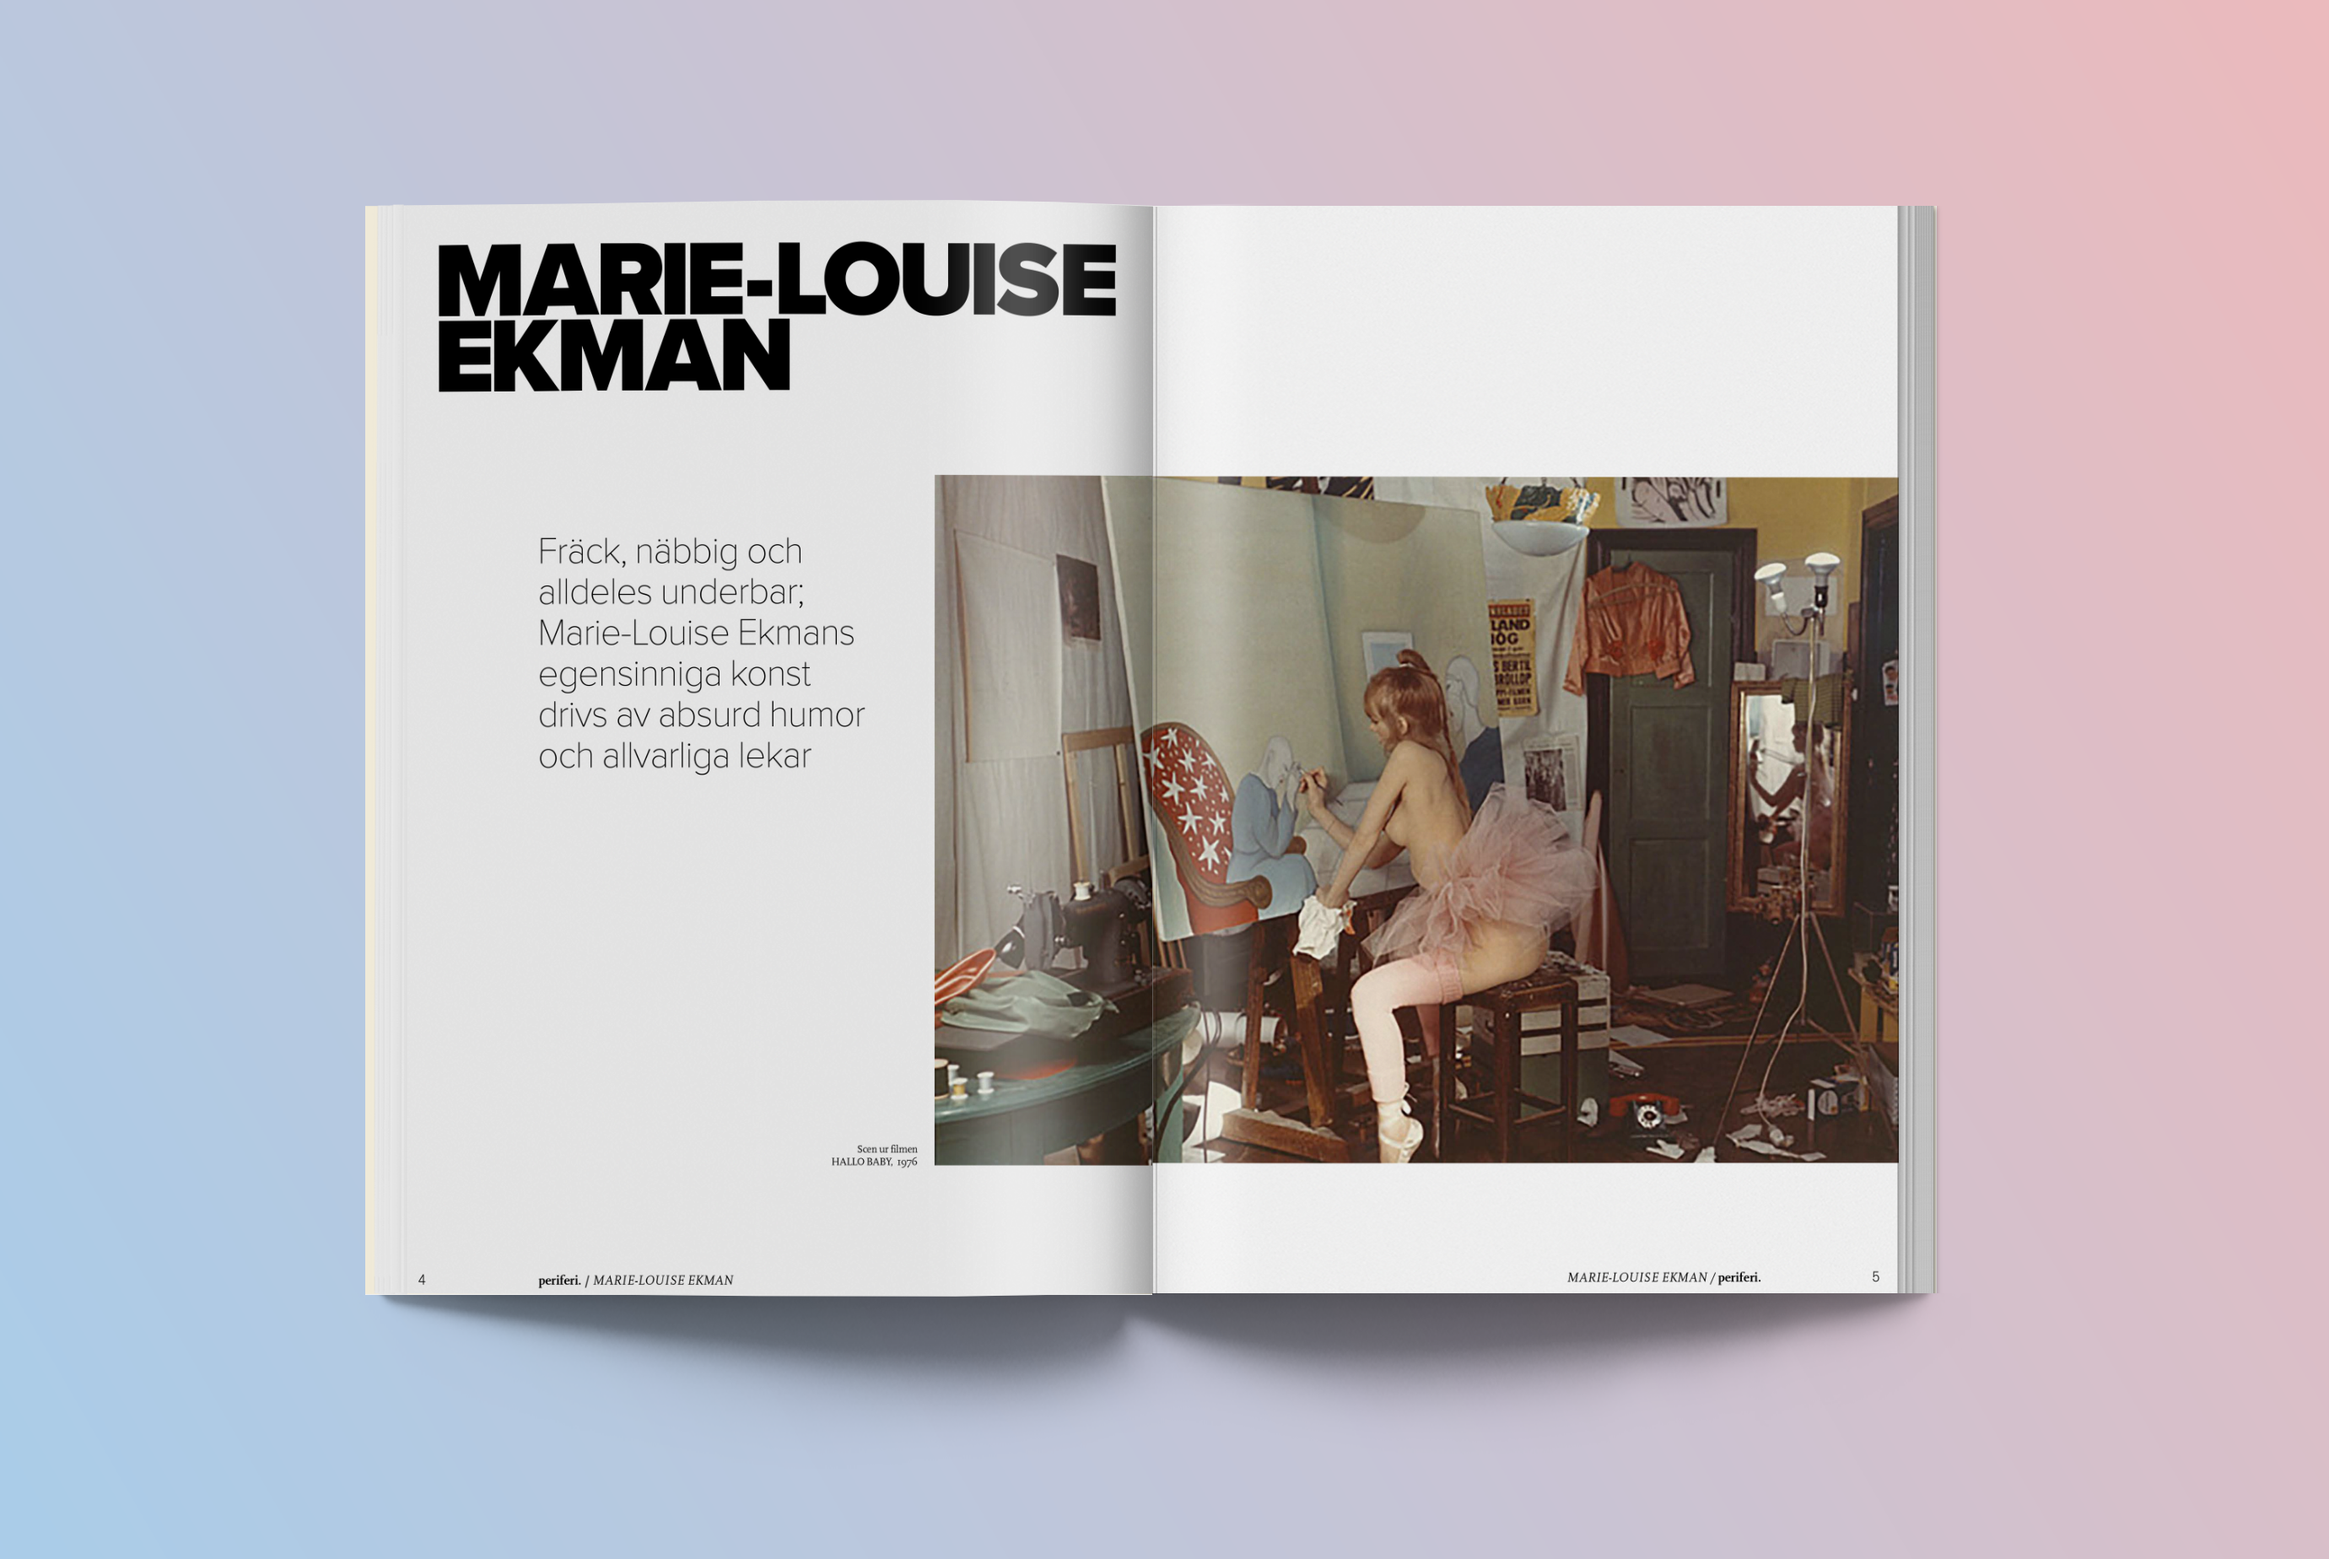
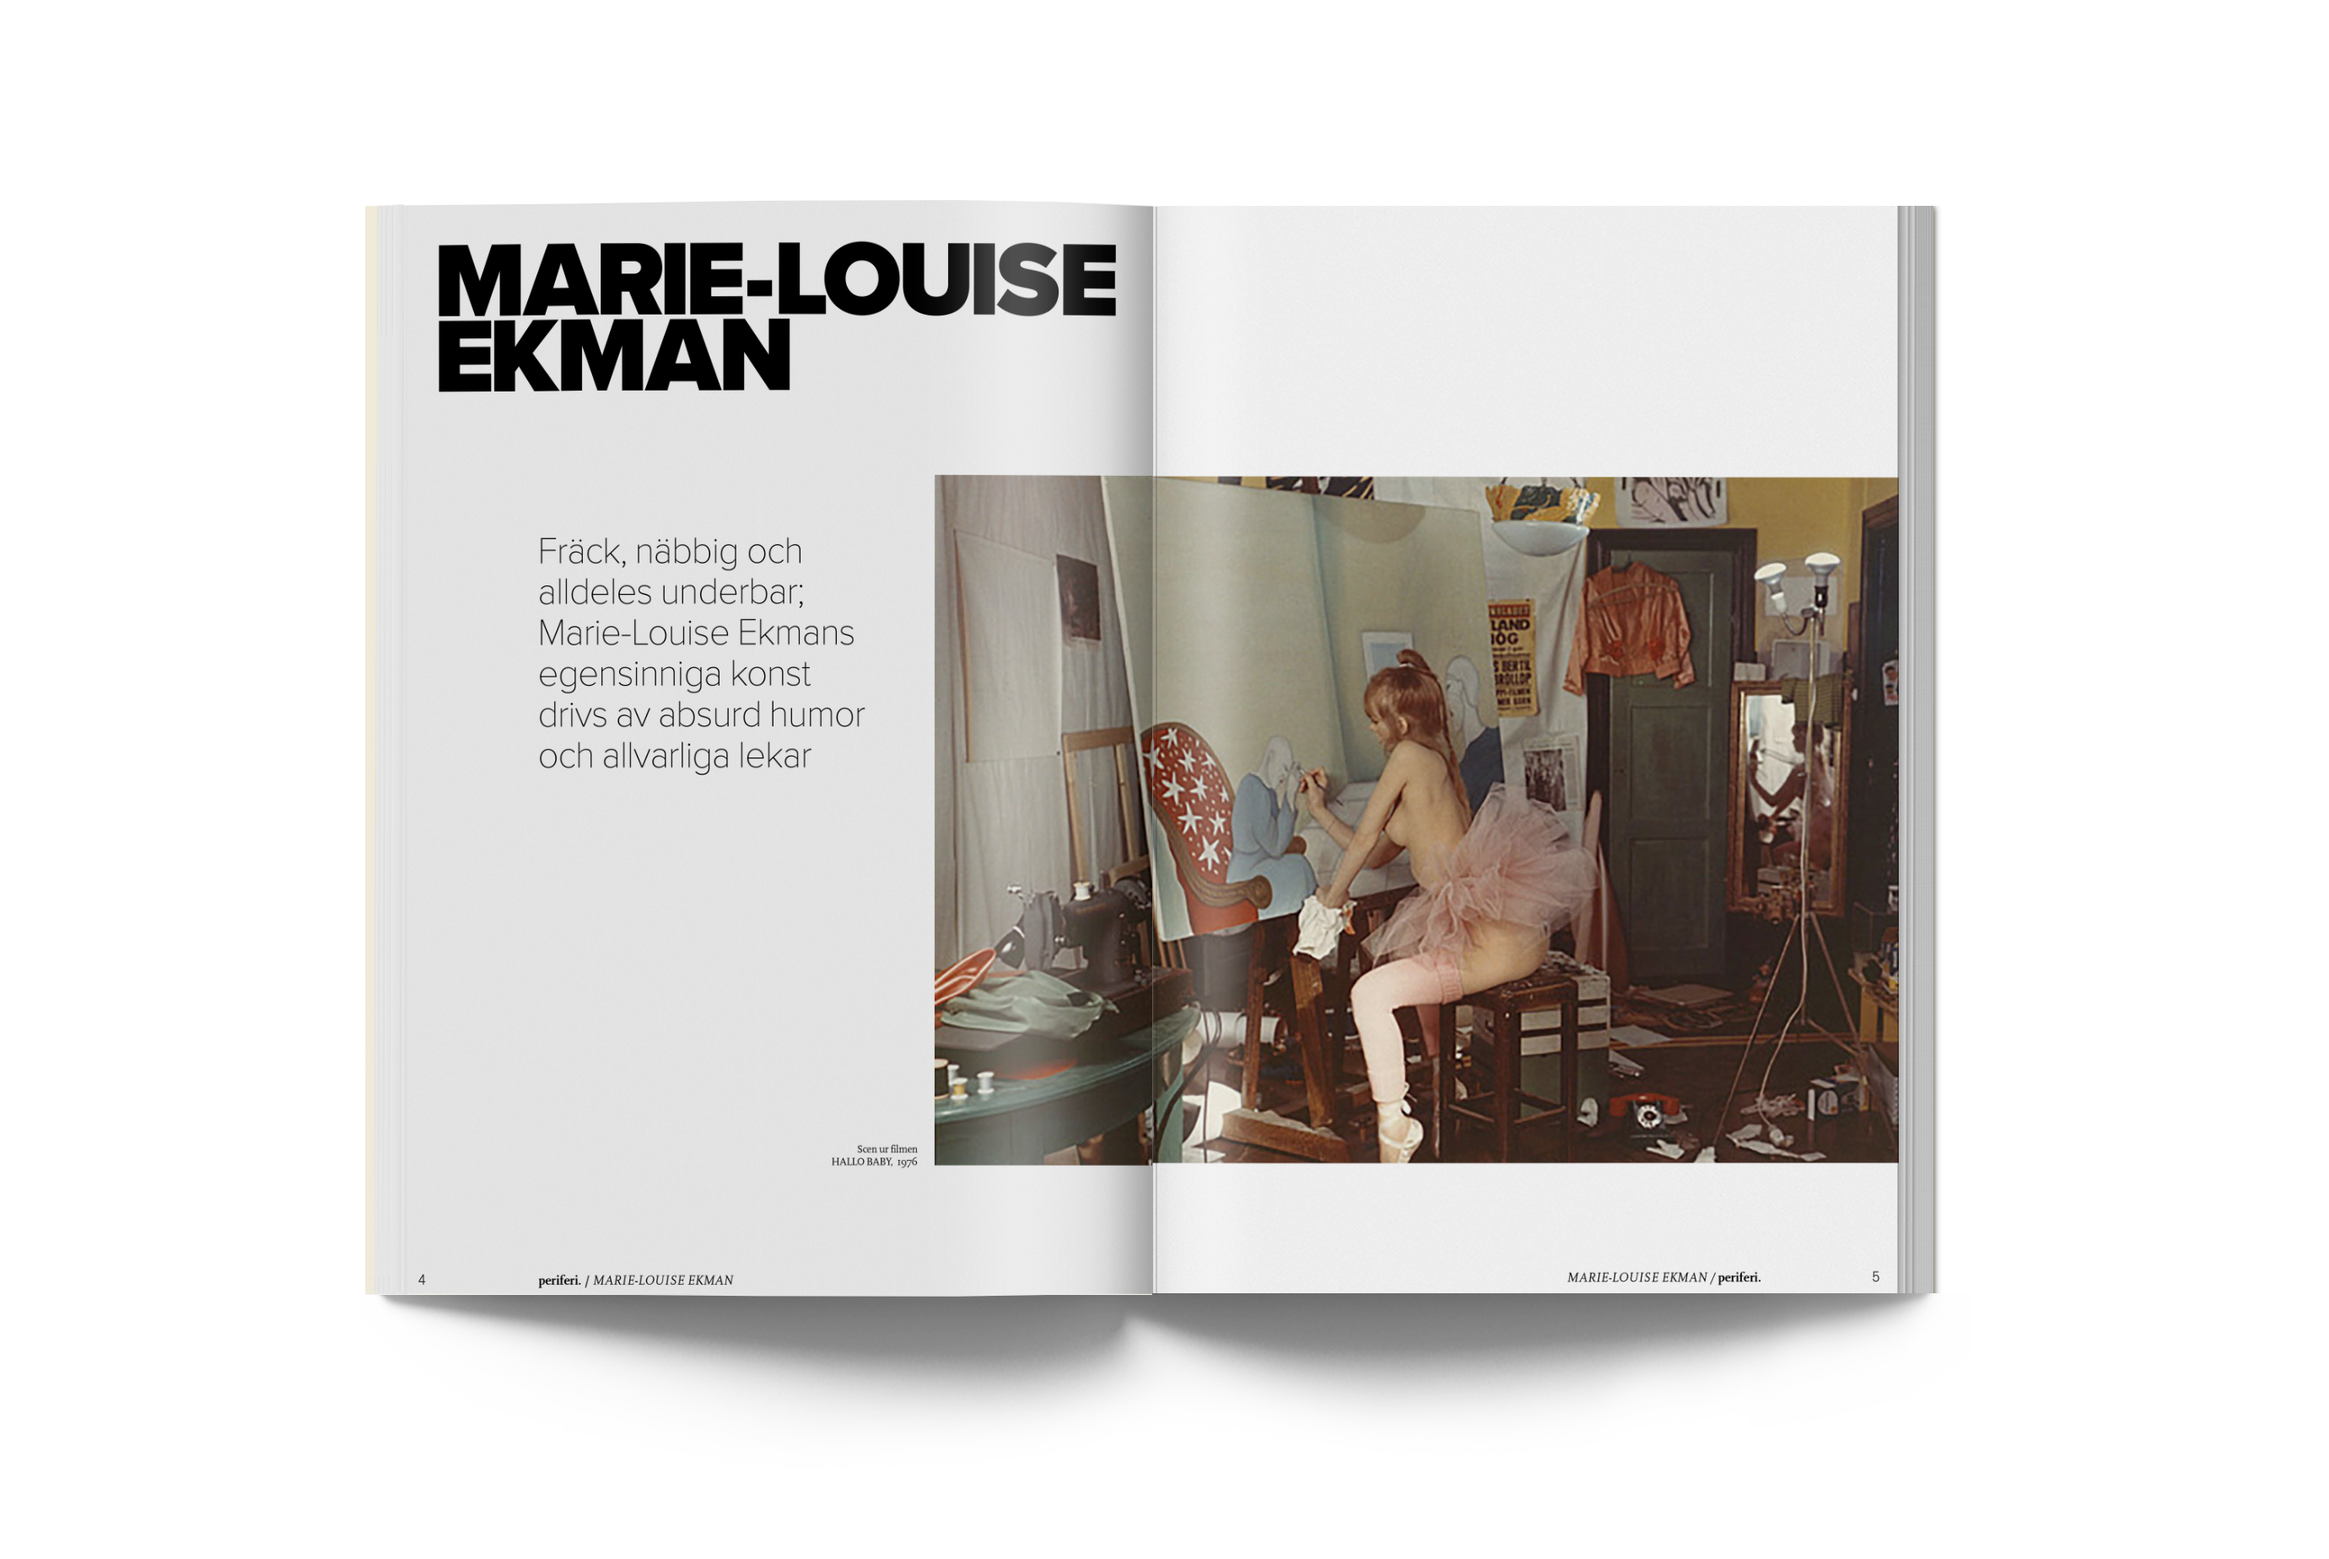
update bilder periferi

diff --git a/magazine.html b/magazine.html
@@ -18,13 +18,13 @@
 
         <div class="box-images">
 
-            <div class="image1">
-              <img src="bilder/Periferi_Mockup-front2.png" alt="">
+          <div class="image1">
+            <img src="bilder/logo-no3-03-01.png" alt="">
 
-            </div>
+          </div>
 
             <div class="image1">
-              <img src="bilder/Mockup-spread.png" alt="">
+              <img src="bilder/Uppslag-mle-start.png" alt="">
 
             </div>
 
@@ -44,7 +44,7 @@
             </div>
 
             <div class="image1">
-              <img src="bilder/Periferi_Mockup-front-MULTIPLE.png" alt="">
+              <img src="bilder/Periferi_Mockup-frontx3.png" alt="">
 
             </div>
 <hr>
@@ -52,7 +52,7 @@
         </div>
 
         <footer>
-          Cecilia Turemark © cturemark@gmail.com
+          Cecilia Turemark © 2019
         </footer>
     </div>
 

diff --git a/about.html b/about.html
@@ -28,13 +28,17 @@
 
         </div>
         <div class="text">
-          <p>You can reach me om +46735093450</p>
-          <p>or if you prefer email cturemark@gmail.com is the one to remember!</p>
+          <a href="https://www.linkedin.com/in/cecilia-turemark-2b467813b/">linkedin</a>
+          <a href="#">behance</a>
+          <a href="#">dribble</a>
+
+          <p>You can reach me om +46735093450 <br>
+          or if you prefer email cturemark@gmail.com is the one to remember!</p>
         </div>
 <hr>
 
         <footer>
-          Cecilia Turemark © cturemark@gmail.com
+          Cecilia Turemark © 2019
         </footer>
 
     </div>

diff --git a/index.html b/index.html
@@ -38,8 +38,8 @@
             <a name=first-project href="magazine.html">
 
             <img src="bilder/PeriferiMULTIPLE_4-7.png" alt=""></a>
-            <h2>Periferi</h2>
-            <p> Magazine made with love</p>
+            <h2>Periferi - Magazine design</h2>
+            <p> Made a magazine with the goal to promote creative women. <br> Logotype, layout and concept is all mine.</p>
           </div>
 <hr>
             <div class="image1">
@@ -59,7 +59,7 @@
         </div>
 
         <footer>
-          This portfolio is created by Cecilia Turemark © cturemark@gmail.com
+       Cecilia Turemark © 2019
         </footer>
 
     </div>

diff --git a/bookcover.html b/bookcover.html
@@ -19,20 +19,27 @@
         <div class="box-images">
 
             <div class="image1">
+              <img src="bilder/Mockup-fram.png" alt="">
+
+            </div>
+
+            <div class="image1">
               <img src="bilder/Mockup-bak.png" alt="">
 
             </div>
 
             <div class="image1">
-              <img src="bilder/Mockup-fram.png" alt="">
+              <img src="bilder/Liftarenx3.png" alt="">
 
             </div>
+
+
 <hr>
 
         </div>
 
         <footer>
-          <p>Cecilia Turemark © cturemark@gmail.com</p>
+          Cecilia Turemark © 2019
         </footer>
 
     </div>

diff --git a/new_style.css b/new_style.css
@@ -114,9 +114,10 @@ h4{
   color:#A6A5A5;
   font-family: sans-serif;
   font-weight: 900;
-  margin: 800px;
+  margin: 25px;
   margin-top: 250px;
 }
+
 
 .text-bottom{
   margin-left: 10px;
